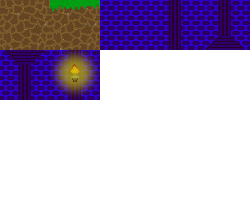
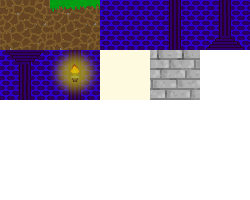
change map

Changed region(s): [[0.392, 0.24, 0.812, 0.51]]

diff --git a/static/game/Scene.js b/static/game/Scene.js
@@ -8,7 +8,7 @@ class Scene extends Phaser.Scene {
     }
 
     preload() {
-        this.load.image("bullet", "images/character/ball2.png");
+        this.load.spritesheet("player", "images/character/player.png", { frameWidth: 30, frameHeight: 30 })
         this.load.image("transparency", "images/character/transparent.png");
         this.load.atlas(
             "flares",
@@ -18,13 +18,17 @@ class Scene extends Phaser.Scene {
         this.load.image("dirt", "images/block/dirt.png");
         this.load.tilemapTiledJSON("map", "images/map/maptile.json");
         this.load.image("blocktiles", "images/map/tile.png");
+        this.load.image("decorations", "images/map/decors.png")
     }
 
     create() {
         const map = this.make.tilemap({ key: "map" });
-        const tileset = map.addTilesetImage("blocktiles");
-        const BackgroundLayer = map.createLayer("BackgroundLayer", tileset);
-        const Groundlayer = map.createLayer("GroundLayer", tileset);
+        const blocktileset = map.addTilesetImage("blocktiles");
+        const decorations = map.addTilesetImage("decorations");
+        const BackgroundLayer = map.createLayer("BackgroundLayer", blocktileset);
+        map.createLayer("DecorationLayer", decorations)
+        // const DecorationsLayer = map.createLayer("Decors", decorations)
+        const Groundlayer = map.createLayer("GroundLayer", blocktileset);
 
         map.setCollisionByProperty({ collides: true });
         this.matter.world.convertTilemapLayer(Groundlayer);

diff --git a/static/game/Player.js b/static/game/Player.js
@@ -17,7 +17,7 @@ export default class Player {
     constructor(scene, mM) {
         const positionX = 300;
         const positionY = 300;
-        this.sprite = scene.matter.add.sprite(positionX, positionY, "bullet");
+        this.sprite = scene.matter.add.sprite(positionX, positionY, "player", 0);
         this.touching = {
             top: false,
             right: false,
